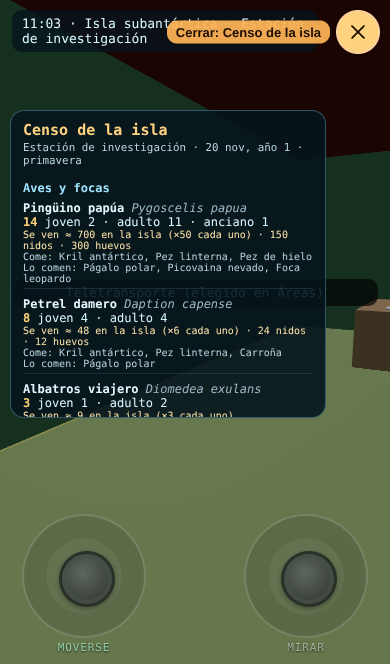
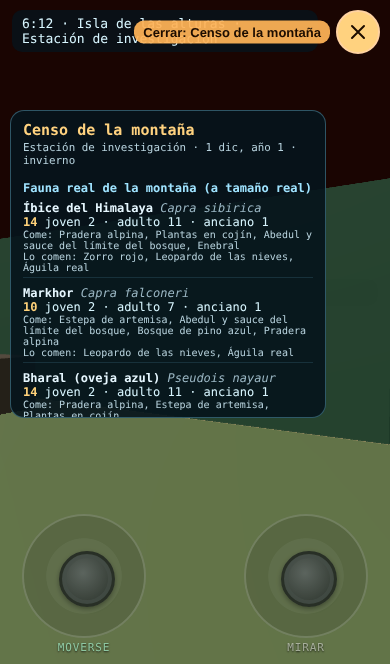
S3: la pupa andando con «Ir» (prueba de suelo) y PX-51 por tramos
- pupa-abeja.test: el camino desde el edificio más cercano, sobre suelo cada medio metro y sin caer al lago (k = 1).
- PX-51 anda a la pupa con «Ir» y «Viaje: el camino real», como un jugador; EXPERIENCIA_TRAMO=pupa-tablones.
- Tablón de la nave: nombre corto en su placa y se lee a 3,2 m.

Claude-Session: https://claude.ai/code/session_013f2k3CP9XXanZJK2tg7M68

diff --git a/src/modules/aerial-sanctuary/data/pupa-abeja.test.ts b/src/modules/aerial-sanctuary/data/pupa-abeja.test.ts
@@ -71,6 +71,32 @@ describe("la pupa de la abeja en el centro de la pirámide (pupa-abeja.md)", () 
     expect(b.area).toBe(PUPA_AREA);
   });
 
+  it("«Ir» andando desde el edificio más cercano (el juego, k = 1): cada paso del camino sobre suelo, nunca en el lago", () => {
+    const G = buildLayout(1);
+    const end = G.graph.points.filter((q) => q.id.startsWith(`${PUPA_AREA}:muelle`)).at(-1)!;
+    const tree = [...G.hollow.trees].sort((a, c) => Math.hypot(a.x - end.x, a.z - end.z) - Math.hypot(c.x - end.x, c.z - end.z))[0]!;
+    const foot = G.areas.find((a) => a.id === `entrenamiento:${tree.def.id}:pie`)!;
+    const way = shortestWay(G.graph, foot.point, PUPA_POINT)!;
+    expect(way.slice(1).every((q) => !q.carpet && !q.gate), way.map((q) => q.id).join(" → ")).toBe(true);
+    for (let i = 1; i < way.length; i++) {
+      const a = way[i - 1]!;
+      const c = way[i]!;
+      const n = Math.max(1, Math.ceil(Math.hypot(c.x - a.x, c.z - a.z) / 0.5));
+      for (let k = 0; k <= n; k++) {
+        const x = a.x + ((c.x - a.x) * k) / n;
+        const z = a.z + ((c.z - a.z) * k) / n;
+        const y = a.y + ((c.y - a.y) * k) / n;
+        expect(G.world.floors.some((f) => x >= f.x0 && x <= f.x1 && z >= f.z0 && z <= f.z1 && Math.abs(f.y - y) < 1.6), `${a.id} → ${c.id} en ${x.toFixed(1)}, ${z.toFixed(1)}`).toBe(true);
+      }
+    }
+    let b = placeAt(G.world, way[0]!.x, way[0]!.y, way[0]!.z)!;
+    for (const q of way.slice(1)) {
+      b = walk(G.world, b, q);
+      expect(b.motion, q.id).not.toBe("agua");
+    }
+    expect(b.area).toBe(PUPA_AREA);
+  }, 60000);
+
   it("su tamaño sale del sitio que deja el campus, no de números fijos", () => {
     const narrow = pupaPlan([{ x0: HOLLOW.x + 30, x1: HOLLOW.x + 40, z0: HOLLOW.z - 5, z1: HOLLOW.z + 5, y0: 100, y1: 200 }]);
     expect(narrow.r).toBeLessThan(p.r + 0.01);

diff --git a/src/s3-biome.ts b/src/s3-biome.ts
@@ -242,8 +242,9 @@ export class S3Biome {
       this.insectView.update(t, this.life.poses(), this.life.state.day + this.life.state.def.startDayOfYear, camera.position, this.life.state);
       this.carbonView.update(t, this.carbon.poses(), this.carbon.state.day + this.carbon.state.def.startDayOfYear, camera.position);
     }
-    const by = (q: { x: number; y: number; z: number } | undefined) => !!q && Math.hypot(body.x - q.x, body.z - q.z) < 2.4 && Math.abs(body.y - q.y) < 1;
-    this.at = this.working ? "" : onStage && by(this.board) ? "fuera" : inside && by(this.hallBoard) ? "nave" : "";
+    const by = (q: { x: number; y: number; z: number } | undefined, r: number) => !!q && Math.hypot(body.x - q.x, body.z - q.z) < r && Math.abs(body.y - q.y) < 1;
+    // The hall's hangs on the wall over the insectaries: read from a step farther.
+    this.at = this.working ? "" : onStage && by(this.board, 2.4) ? "fuera" : inside && by(this.hallBoard, 3.2) ? "nave" : "";
     this.near = !!this.at;
     this.nearDesk = onStage && !this.working && !this.near && Math.hypot(body.x - this.desk.x, body.z - this.desk.z) < 1.9 && Math.abs(body.y - this.desk.y) < 1;
     if (!this.nearDesk && this.picker.isOpen) this.picker.close();

diff --git a/src/modules/aerial-sanctuary/data/campus-fixtures.ts b/src/modules/aerial-sanctuary/data/campus-fixtures.ts
@@ -99,7 +99,7 @@ const laboratorio: Furnish = (sink, fr) => {
 };
 
 /** The name of the census board of the breeding room, the one inside the mountain (s3-biome.ts finds it by it). */
-export const CENSUS_BOARD = "Tablón del censo de la nave: insectos gigantes, Carbonífero y larvas";
+export const CENSUS_BOARD = "Censo de la nave";
 
 const crianza: Furnish = (sink, fr) => {
   const { at, lights } = roomKit(sink, fr);

diff --git a/docs/design/pupa-abeja.md b/docs/design/pupa-abeja.md
@@ -101,3 +101,9 @@ el cuerpo, y la adulta que roe la tapa y sale volando). Se llega **andando**: de
 cercano (donde paran las alfombras) sale un muelle hasta una galería alrededor de la celda; también se puede nadar
 alrededor y está en Áreas. Su tamaño se calcula con el sitio libre del centro, así que sigue cabiendo si la montaña
 cambia.
+
+**Ir andando** (2026-11-28): desde el pie del edificio más cercano, «Ir» con «Viaje: el camino real» sigue el camino del
+grafo por el muelle sin salirse; `pupa-abeja.test.ts` comprueba con el juego (k = 1) que cada medio metro del camino
+está sobre suelo y que andándolo nunca cae al lago. PX-51 lo hace así, como un jugador (antes empujaba el joystick tramo
+a tramo y se desviaba al agua: era fallo del recorrido, no del juego). `EXPERIENCIA_TRAMO=pupa-tablones` corre solo la
+pupa y los dos tablones del censo (24/24 el 2026-11-28; captura del de dentro: `docs/screenshots/s3b-censo-nave-movil.png`).
